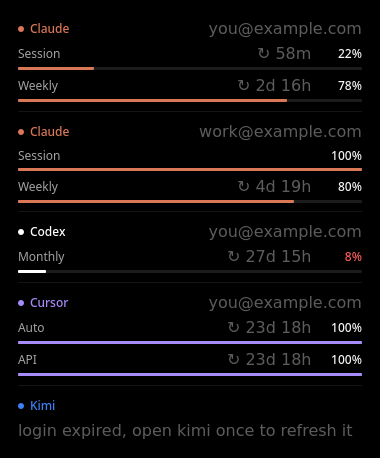
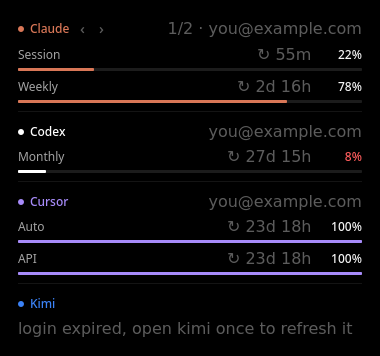
Flip between accounts of the same provider with arrows

Changed region(s): [[0.0289, 0.0309, 0.9553, 0.9579], [0.4342, 0.0618, 0.5211, 0.0927]]

diff --git a/package/contents/ui/main.qml b/package/contents/ui/main.qml
@@ -23,6 +23,17 @@ PlasmoidItem {
     // The panel shows whichever limit is closest to running out.
     readonly property var lowest: all.reduce((a, b) => (!a || b.used > a.used ? b : a), null)
     readonly property real lowestLeft: lowest ? Math.max(0, 100 - lowest.used) : 0
+    // One section per provider; extra accounts are flipped through with the arrows.
+    readonly property var groups: {
+        const out = []
+        for (const p of providers) {
+            const g = out.find(g => g.name === p.name)
+            if (g) g.accounts.push(p)
+            else out.push({ name: p.name, accounts: [p] })
+        }
+        return out
+    }
+    property var picks: ({})  // provider name -> account index, kept on root so refreshes don't reset it
 
     function tint(name) { return tints[name] || "#a3a3a3" }
 
@@ -95,12 +106,21 @@ PlasmoidItem {
             spacing: Kirigami.Units.largeSpacing
 
             Repeater {
-                model: root.providers
+                model: root.groups
                 delegate: ColumnLayout {
                     id: provider
                     required property var modelData
                     required property int index
-                    readonly property color tint: root.tint(modelData.name)
+                    readonly property var group: modelData
+                    readonly property int count: group.accounts.length
+                    readonly property int pick: (root.picks[group.name] || 0) % count
+                    readonly property var account: group.accounts[pick]
+                    readonly property color tint: root.tint(group.name)
+                    function flip(step) {
+                        const p = Object.assign({}, root.picks)
+                        p[group.name] = (pick + step + count) % count
+                        root.picks = p
+                    }
                     Layout.fillWidth: true
                     spacing: Kirigami.Units.smallSpacing * 1.5
 
@@ -120,12 +140,31 @@ PlasmoidItem {
                             color: provider.tint
                         }
                         Text {
-                            text: provider.modelData.name
+                            text: provider.group.name
                             color: provider.tint
                             font.weight: Font.DemiBold
                         }
+                        Repeater {
+                            model: provider.count > 1 ? [-1, 1] : []
+                            delegate: Text {
+                                required property int modelData
+                                text: modelData < 0 ? "‹" : "›"
+                                color: arrow.containsMouse ? provider.tint : "#5c5c5c"
+                                font.weight: Font.DemiBold
+                                font.pointSize: Kirigami.Theme.defaultFont.pointSize * 1.3
+                                leftPadding: Kirigami.Units.smallSpacing
+                                rightPadding: Kirigami.Units.smallSpacing
+                                MouseArea {
+                                    id: arrow
+                                    anchors.fill: parent
+                                    hoverEnabled: true
+                                    cursorShape: Qt.PointingHandCursor
+                                    onClicked: provider.flip(parent.modelData)
+                                }
+                            }
+                        }
                         Text {
-                            text: provider.modelData.account
+                            text: (provider.count > 1 ? `${provider.pick + 1}/${provider.count} · ` : "") + provider.account.account
                             color: "#5c5c5c"
                             font: Kirigami.Theme.smallFont
                             elide: Text.ElideMiddle
@@ -134,15 +173,15 @@ PlasmoidItem {
                         }
                     }
                     Text {
-                        visible: !!provider.modelData.error
-                        text: (provider.modelData.limits.length ? "last known numbers · " : "") + provider.modelData.error
+                        visible: !!provider.account.error
+                        text: (provider.account.limits.length ? "last known numbers · " : "") + provider.account.error
                         color: "#5c5c5c"
                         font: Kirigami.Theme.smallFont
                         wrapMode: Text.Wrap
                         Layout.fillWidth: true
                     }
                     Repeater {
-                        model: provider.modelData.limits
+                        model: provider.account.limits
                         delegate: Bar {
                             required property var modelData
                             Layout.fillWidth: true

diff --git a/README.md b/README.md
@@ -13,7 +13,7 @@ A KDE Plasma 6 widget that shows how much of your AI coding plans you have left,
 
 **Multiple accounts:** every config dir is an account. Anything matching `~/.claude*/`, `~/.codex*/` or `~/.kimi*/`
 is picked up automatically, so `CLAUDE_CONFIG_DIR=~/.claude_work claude` or `CODEX_HOME=~/.codex-work codex`
-just show up as extra sections.
+show up as extra accounts: flip between them with the ‹ › arrows next to the provider name.
 
 The panel shows the limit closest to running out. Nothing is ever refreshed or written to your CLI logins:
 if a token expired, open that CLI once and the widget catches up on its next poll (every 5 minutes).
